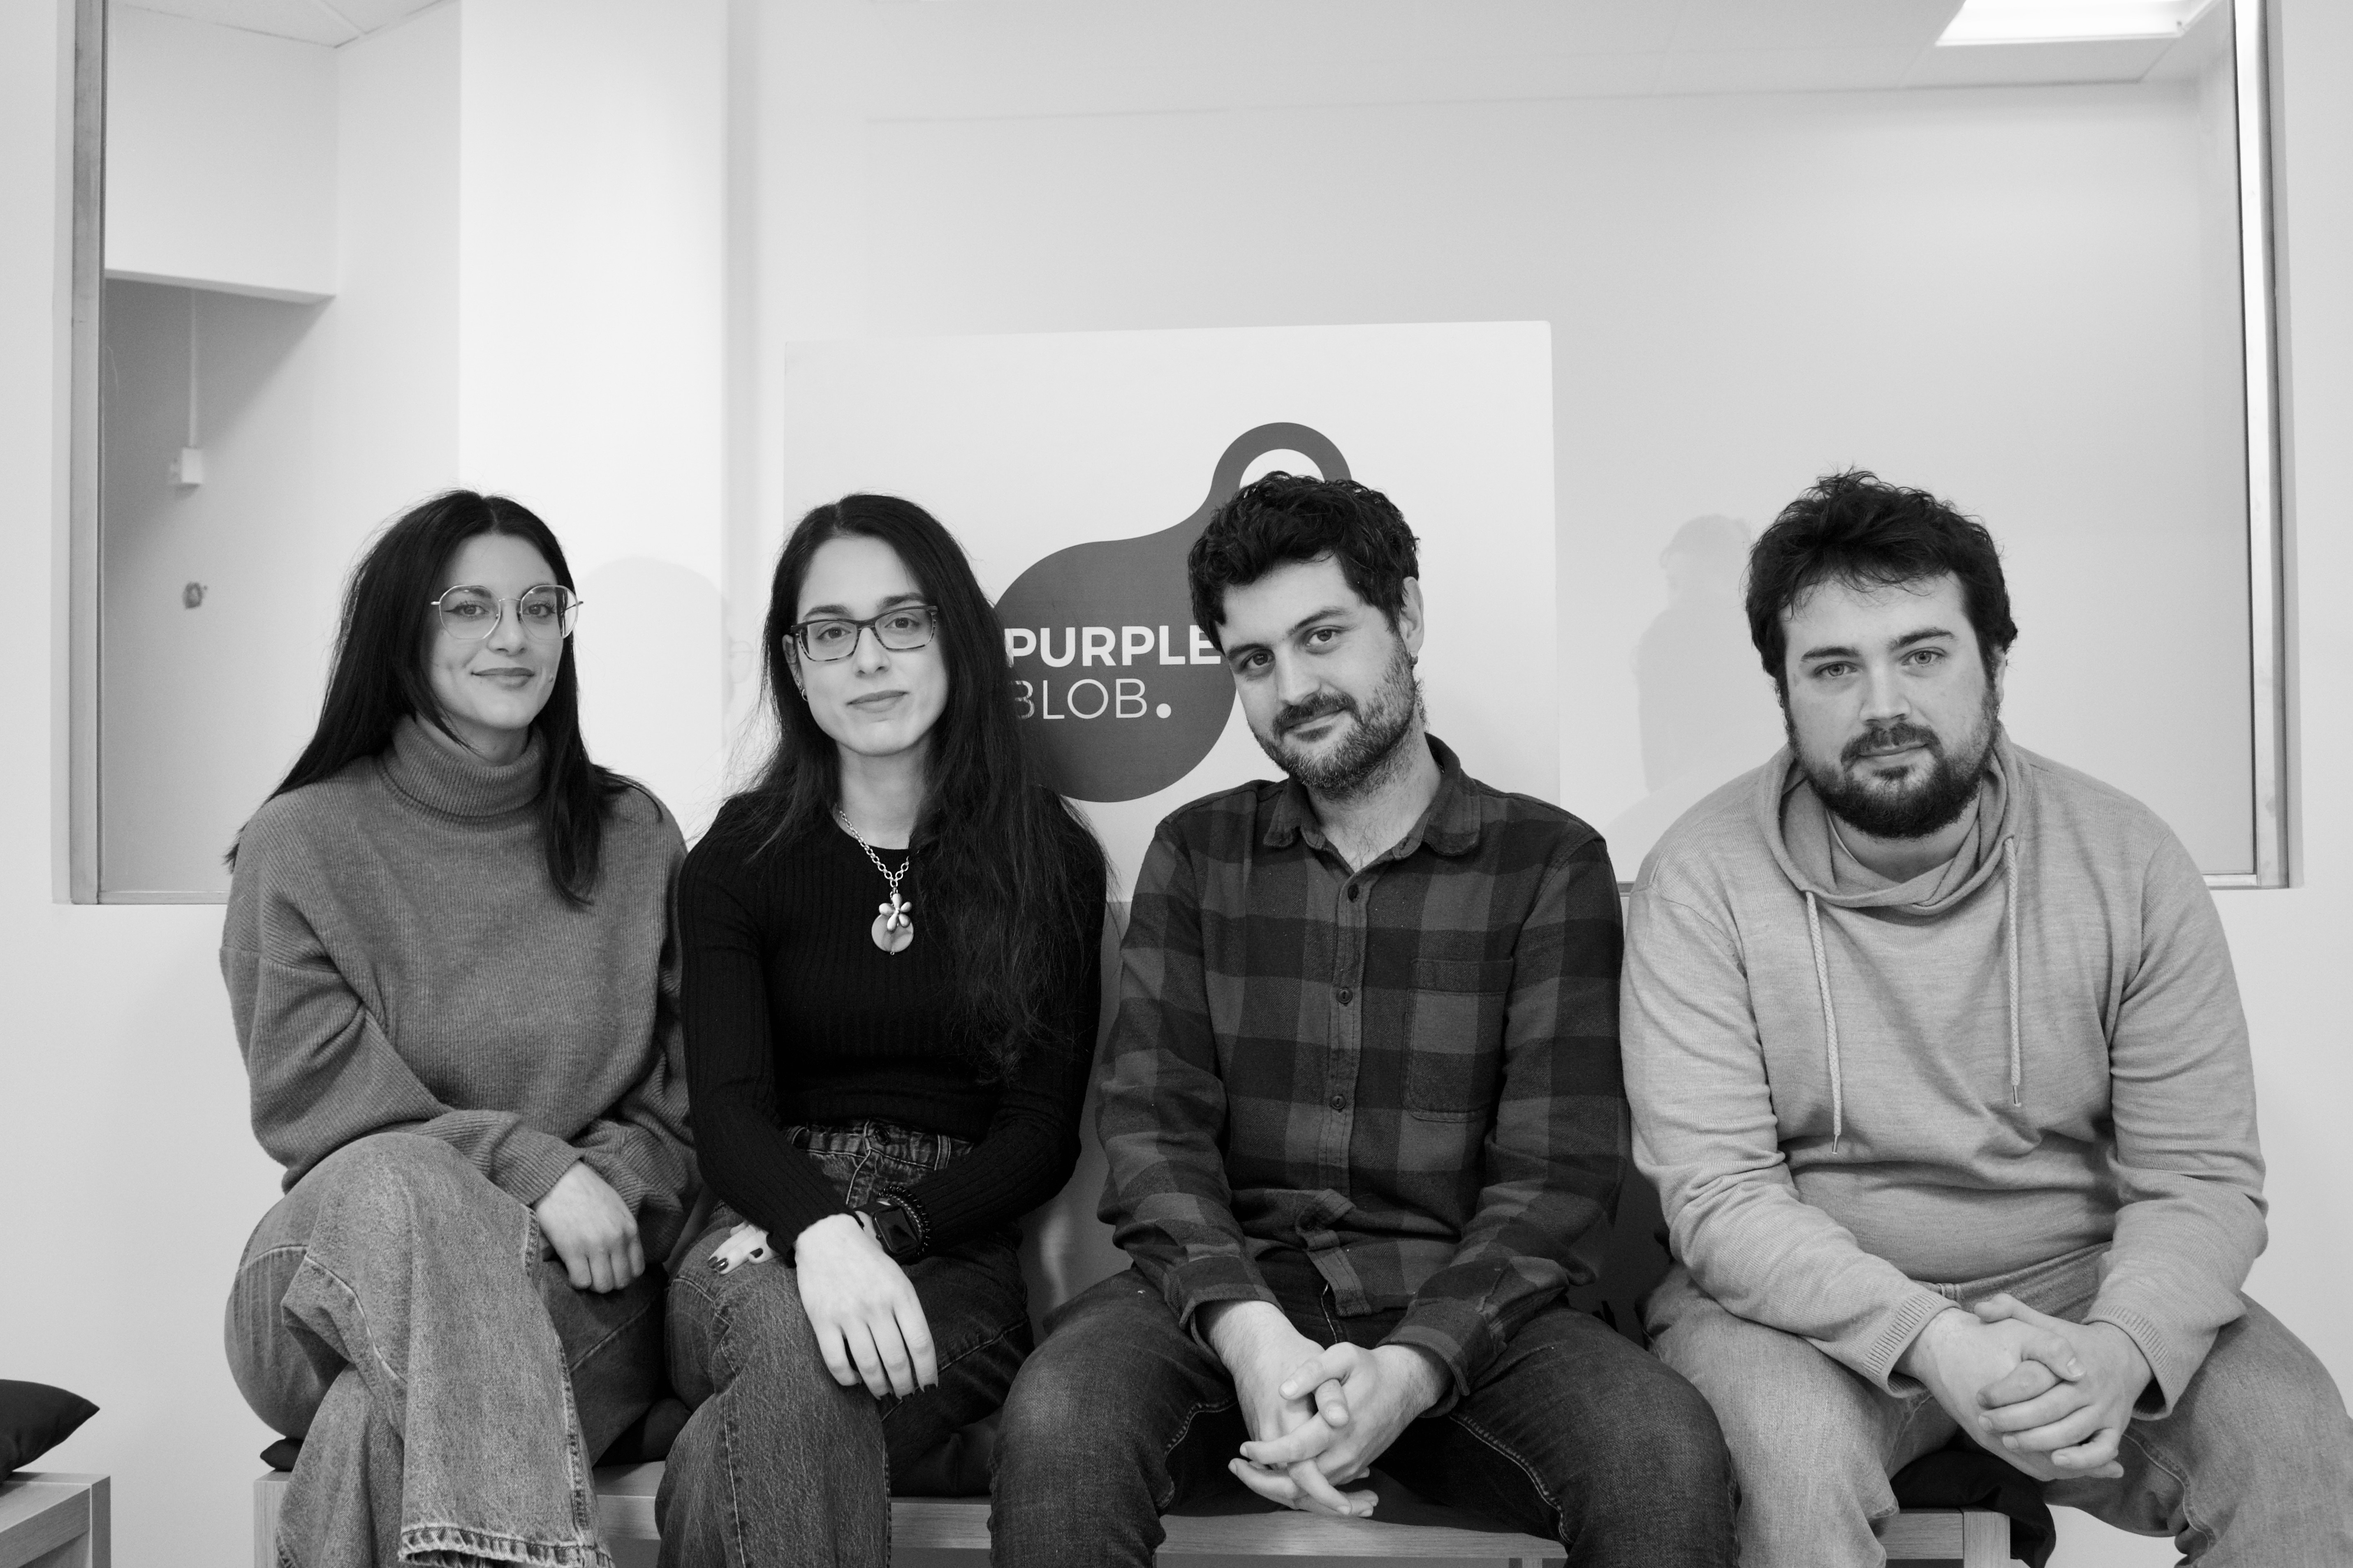
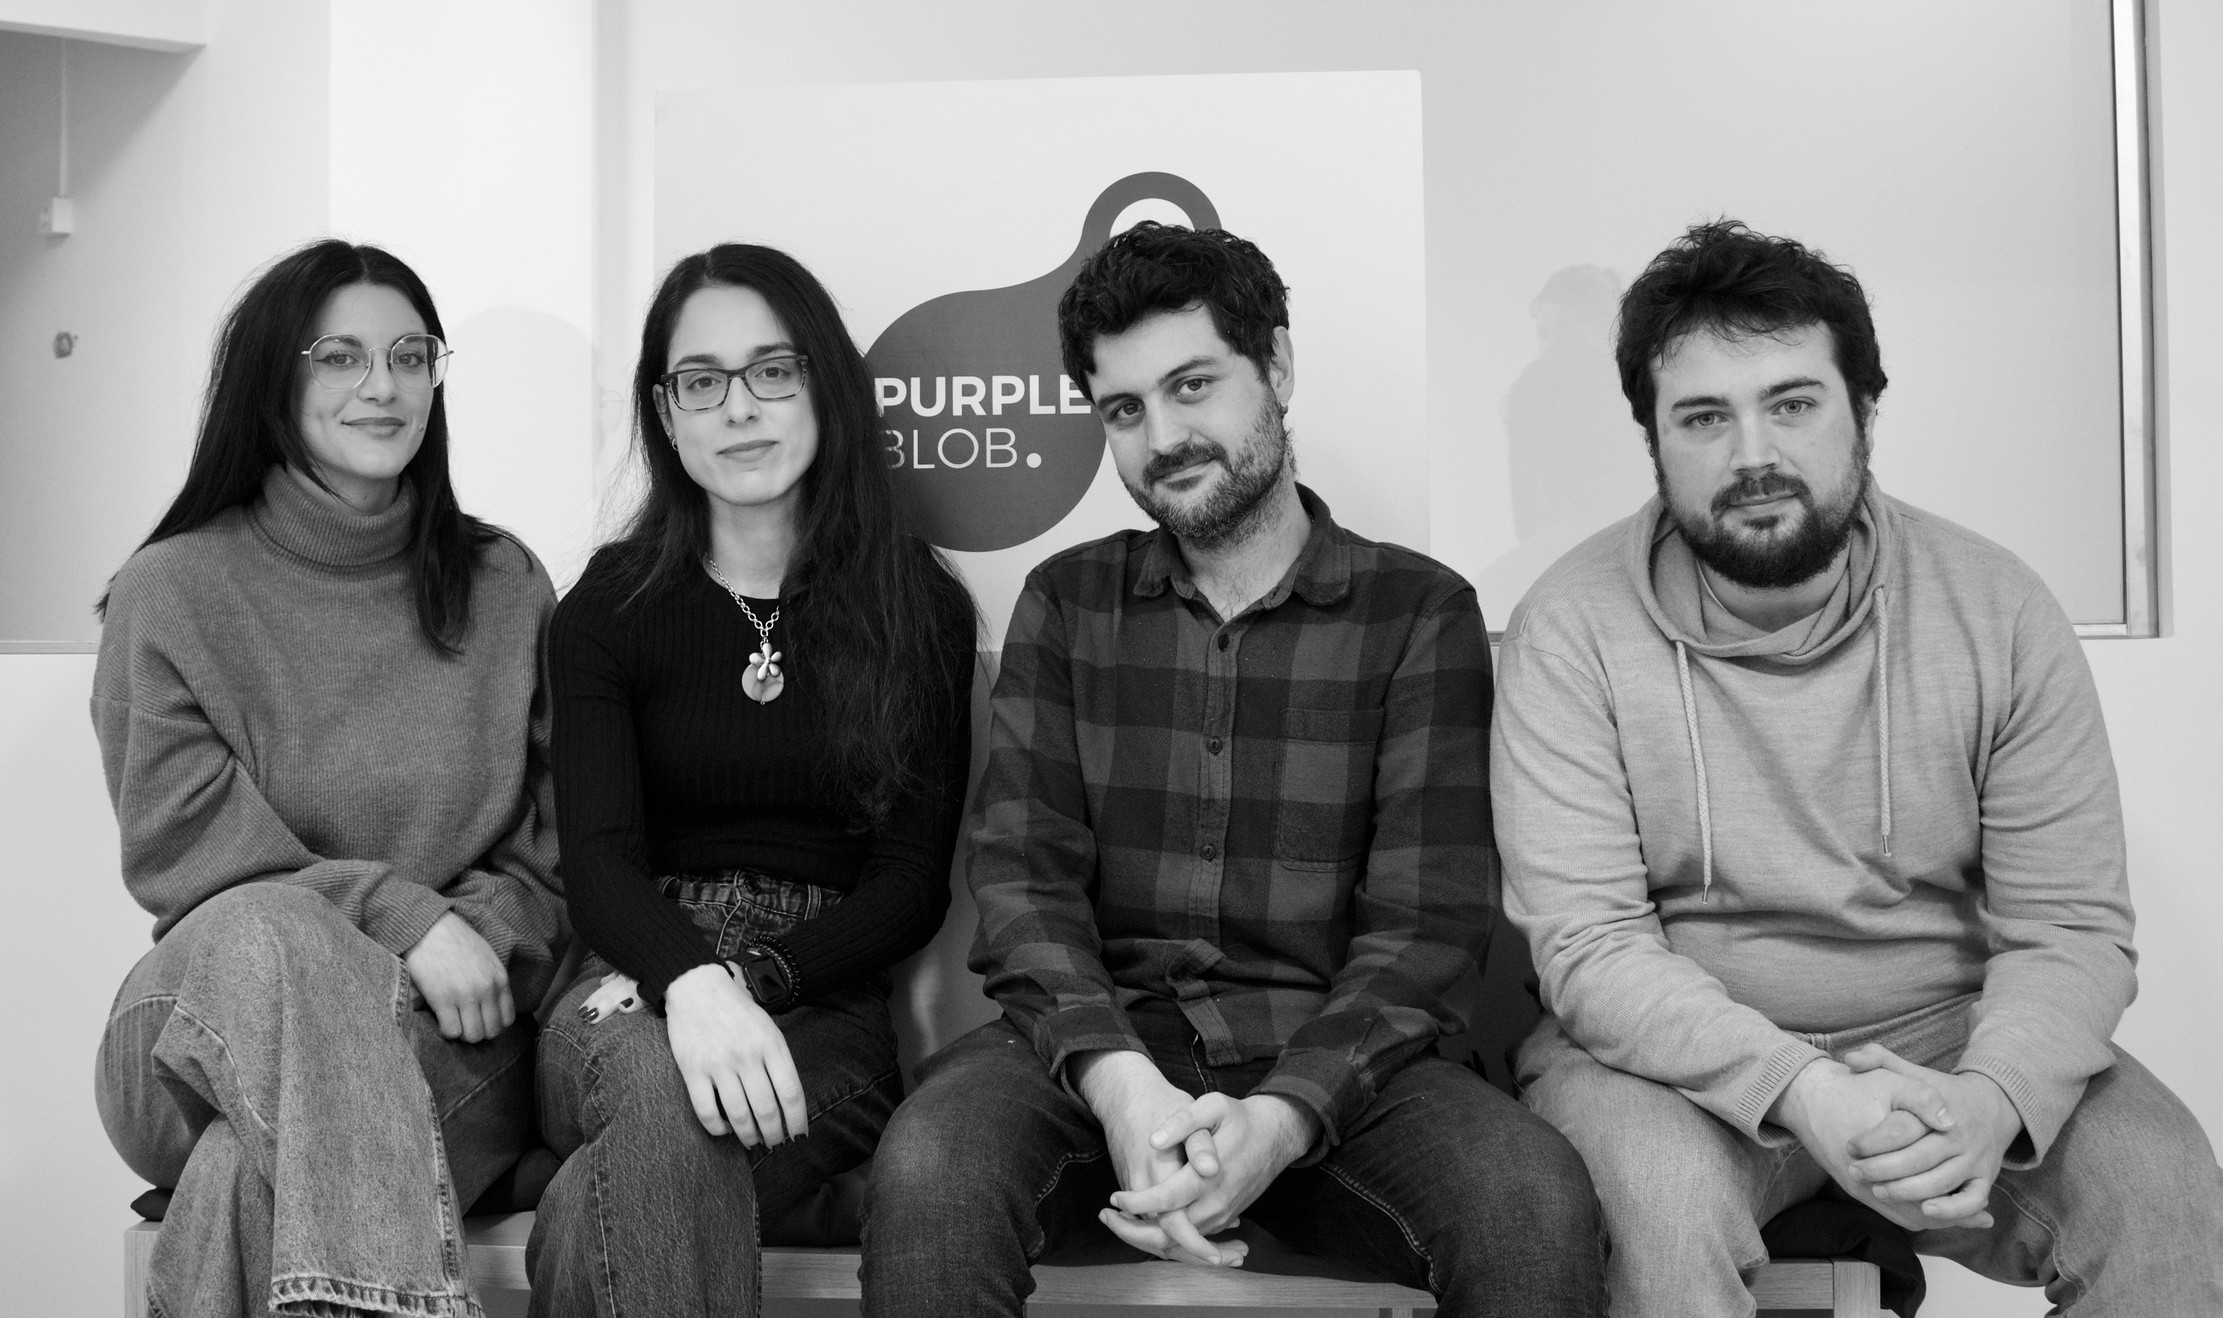
purpleblop en slide

diff --git a/index.html b/index.html
@@ -322,7 +322,7 @@ margin-left: 0px;
                     <img class="image-1" src="imgcover/3-m.jpg" alt="Slide 1">
                     <img class="image-2" src="imgcover/Asier%20Toledano.jpg" alt="Slide 2">
                     <img class="image-3" src="imgcover/4-m.jpg" alt="Slide 3">
-                    <img class="image-4" src="imgcover/signos_aragon.jpg" alt="Slide 4">
+                    <img class="image-4" src="imgcover/purpleblop1-bilbao.JPG" alt="Slide 4">
                     <img class="image-5" src="imgcover/5-m.jpg" alt="Slide 5">
                    <img class="image-6" src="imgcover/inrobics1-madrid.JPG" alt="Slide 6">
                     <img class="image-7" src="imgcover/surfer2.png" alt="Slide 7">
